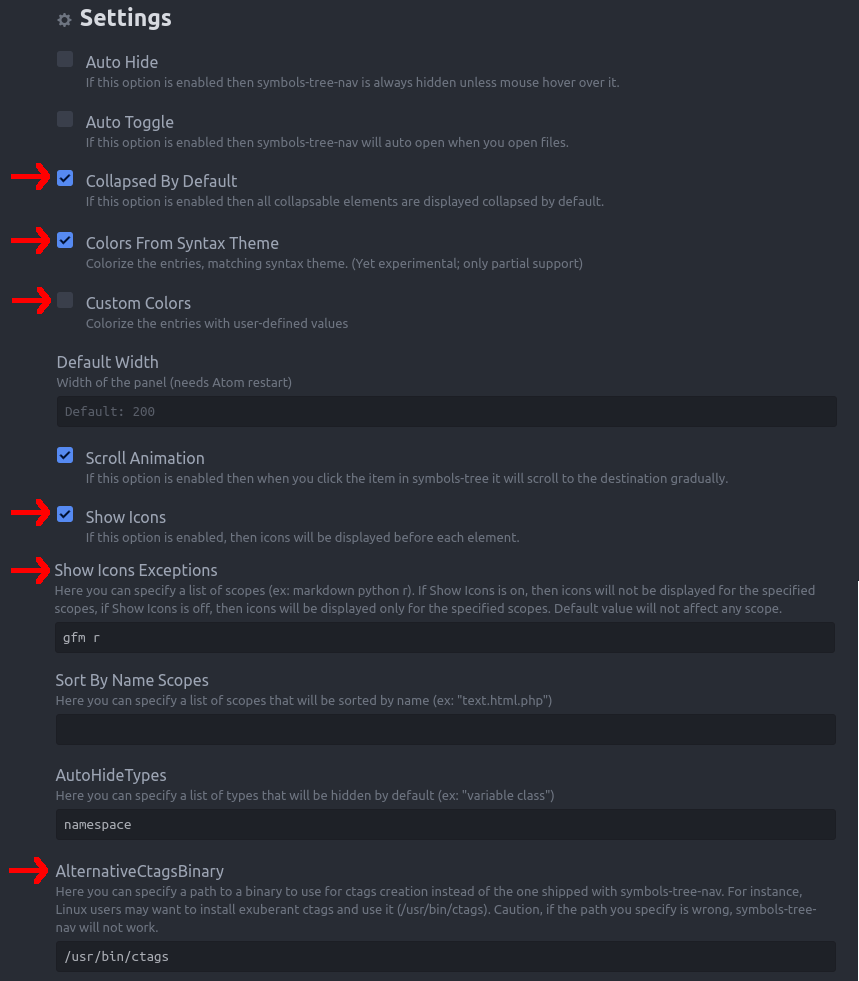
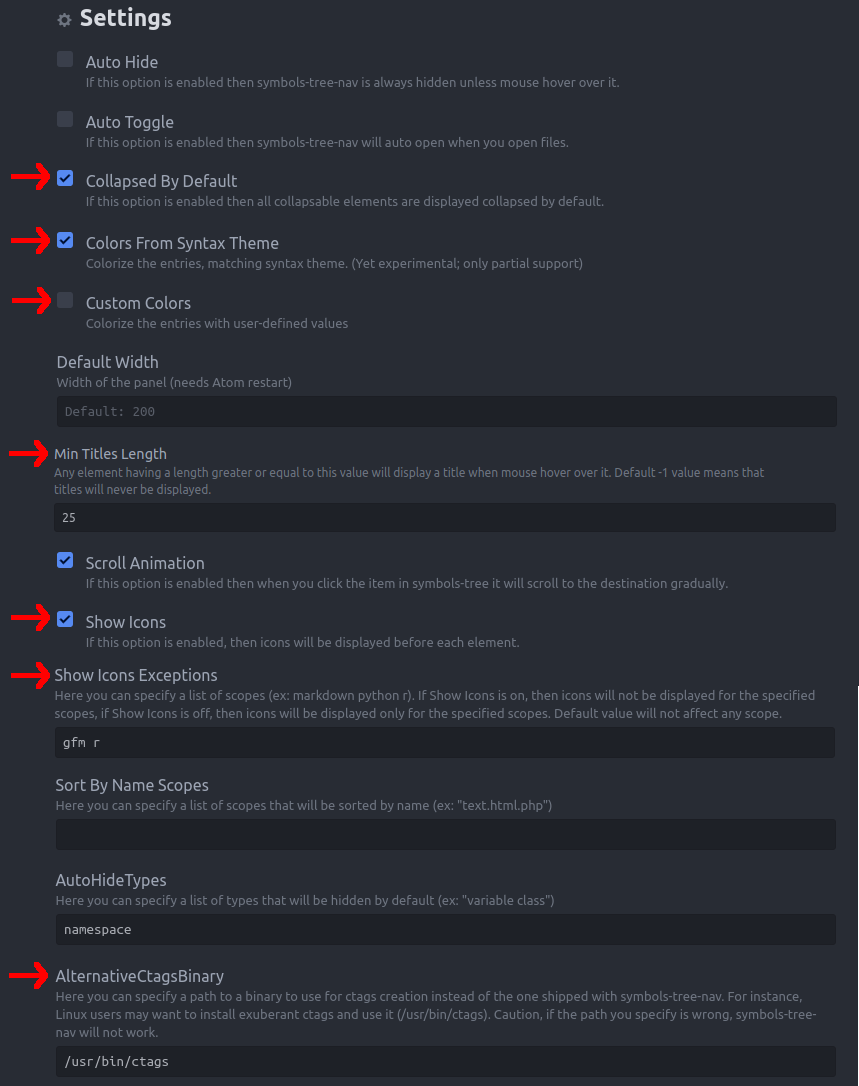
Add option Min Titles Length.

diff --git a/README.md b/README.md
@@ -32,6 +32,8 @@ The ones that are not in symbols-tree-view:
       }
     }
 
+* `Min Titles Length` This is a workaround to be able to see long names that are cut at right. This value is a natural number. When the mouse hover over any element whose length is greater or equal to this value, it will display the complete name as a title. Set it to 0 or 1 to see a title when hovering over any element, or choose the value that's right for your needs. Set it to -1 (default value) to disable this option.
+
 * `Show Icons` Self explanatory. If you wish to change the colors, then add entries for `.icon-function`, `.icon-variable` etc. classes in your styles/symbols-tree-nav.less file. (default=true)
 
 * `Show Icons Exceptions` A list of scopes (ex: "python gfm r") what be will the exceptions to the main rule of Show Icons. If you let the default value, nothing special will happen. If you turn Show Icons on, then icons will be displayed in all files except the ones matching this scopes' list. If Show Icons is off, then icons will be displayed only in the files matching this scopes' list.
